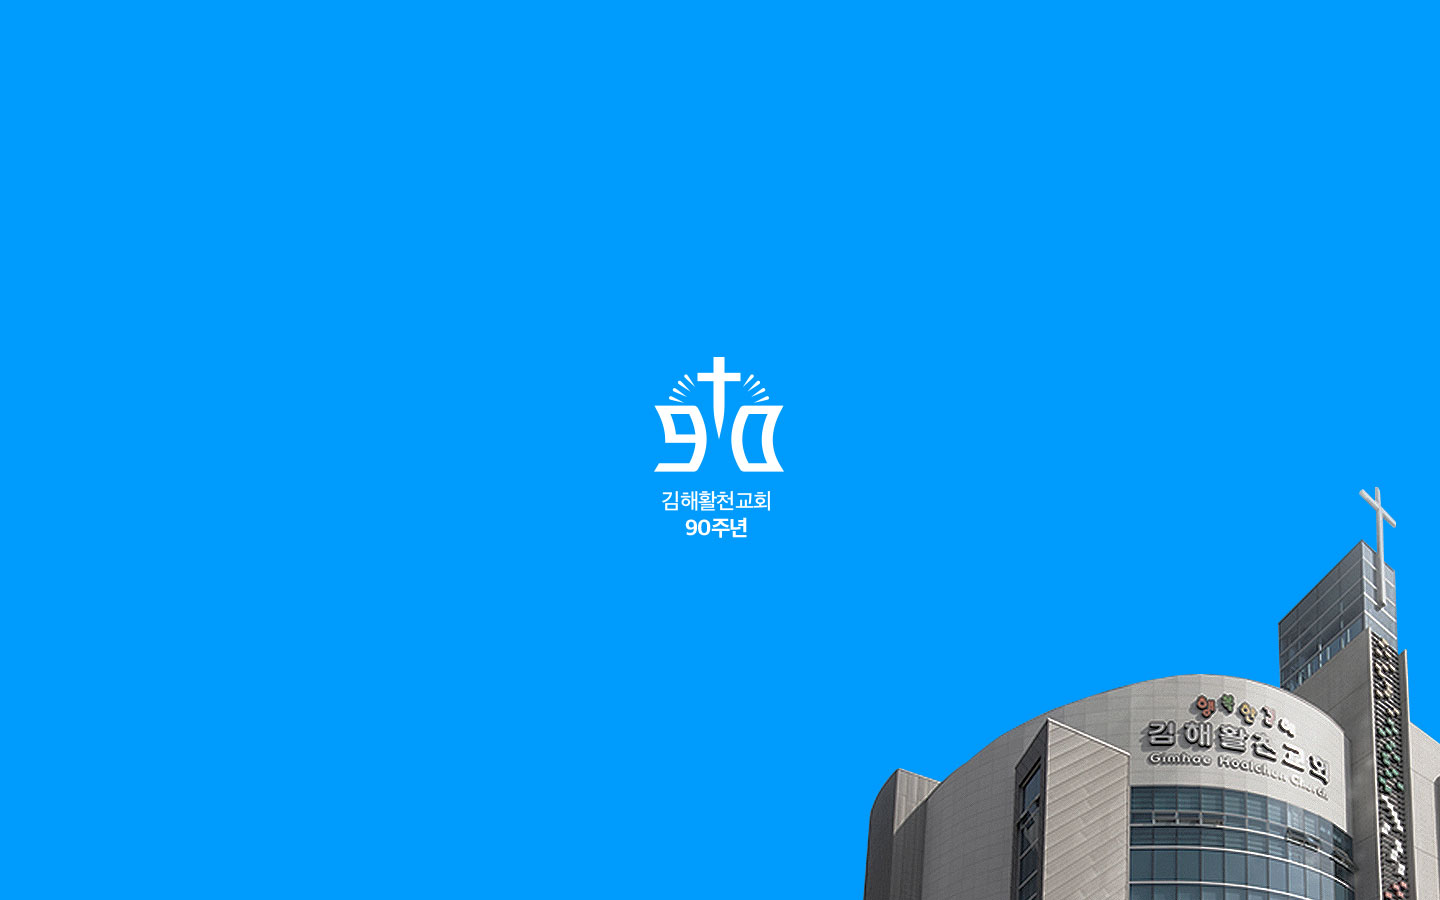
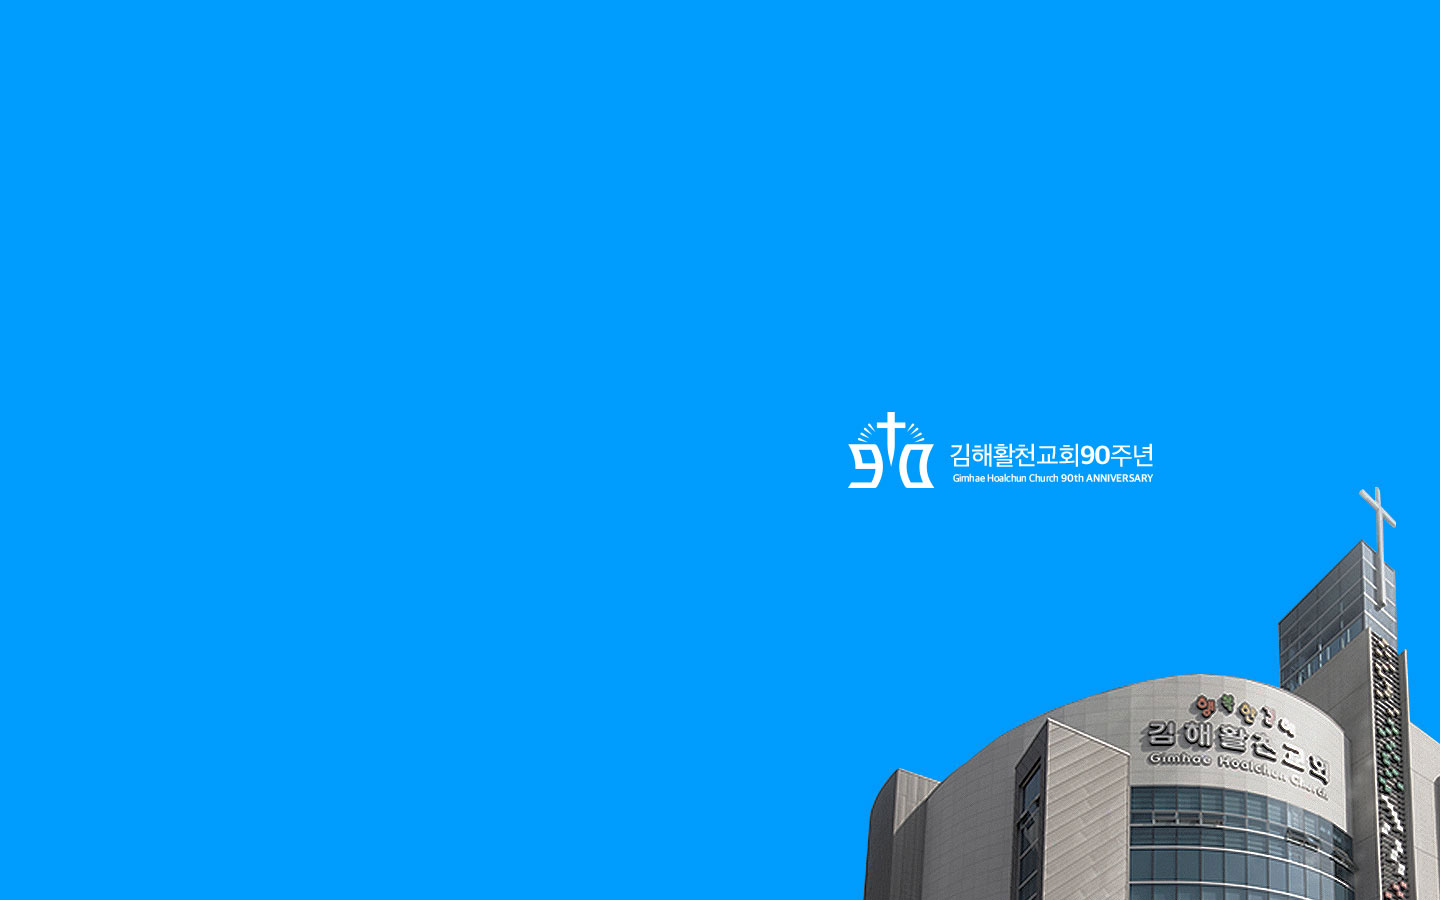
007

Changed region(s): [[0.4375, 0.4044, 0.5625, 0.5911], [0.5938, 0.4667, 0.8125, 0.56]]

diff --git a/draft01.html b/draft01.html
@@ -22,7 +22,7 @@
 
 						</div>
 						<div class="image">
-							<img src="images/draft01.jpg" alt="" />
+							<img src="images/draft05.jpg" alt="" />
 						</div>
 					</section>
 
@@ -47,6 +47,42 @@
 										<img src="images/draft04.jpg" alt="" />
 									</div>
 								</section>
+						<!-- Banner -->
+											<section class="banner style1 orient-left content-align-left image-position-right fullscreen onload-image-fade-in onload-content-fade-right">
+
+												<div class="image">
+													<img src="images/draft01.jpg" alt="" />
+												</div>
+											</section>
+
+						<!-- Banner -->
+							<section class="banner style1 orient-left content-align-left image-position-right fullscreen onload-image-fade-in onload-content-fade-right">
+								<div class="content">
+									<h1>시안 2</h1>
+									<p class="major">Gimhae Hoalchun Church 90th ANNIVERSARY </p>
+									<p>김해활천교회 90주년 시안2 - 인쇄용</p>
+
+								</div>
+								<div class="image">
+									<img src="images/draft001.jpg" alt="" />
+								</div>
+							</section>
+
+							<!-- Banner -->
+												<section class="banner style1 orient-left content-align-left image-position-right fullscreen onload-image-fade-in onload-content-fade-right">
+
+													<div class="image">
+														<img src="images/draft002.jpg" alt="" />
+													</div>
+												</section>
+
+							<!-- Banner -->
+												<section class="banner style1 orient-left content-align-left image-position-right fullscreen onload-image-fade-in onload-content-fade-right">
+
+													<div class="image">
+														<img src="images/draft003.jpg" alt="" />
+													</div>
+												</section>
 
 
 
@@ -54,13 +90,13 @@
 					<footer class="wrapper style1 align-center">
 						<div class="inner">
 							<ul class="icons">
-								<li><a href="#" class="icon brands style2 fa-twitter"><span class="label">Twitter</span></a></li>
-								<li><a href="#" class="icon brands style2 fa-facebook-f"><span class="label">Facebook</span></a></li>
+								<li><a href="http://www.kwec.or.kr/" class="icon brands style2 fa-home"><span class="label">Homepage</span></a></li>
+								<!-- <li><a href="#" class="icon brands style2 fa-facebook-f"><span class="label">Facebook</span></a></li>
 								<li><a href="#" class="icon brands style2 fa-instagram"><span class="label">Instagram</span></a></li>
 								<li><a href="#" class="icon brands style2 fa-linkedin"><span class="label">LinkedIn</span></a></li>
-								<li><a href="#" class="icon style2 fa-envelope"><span class="label">Email</span></a></li>
+								<li><a href="#" class="icon style2 fa-envelope"><span class="label">Email</span></a></li> -->
 							</ul>
-							<p>&copy; Untitled. Design: <a href="https://html5up.net">HTML5 UP</a>.</p>
+							<p>&copy; Gimhae Hoalchun Church 90th ANNIVERSARY. Design: Jeongyucheol.</p>
 						</div>
 					</footer>
 
